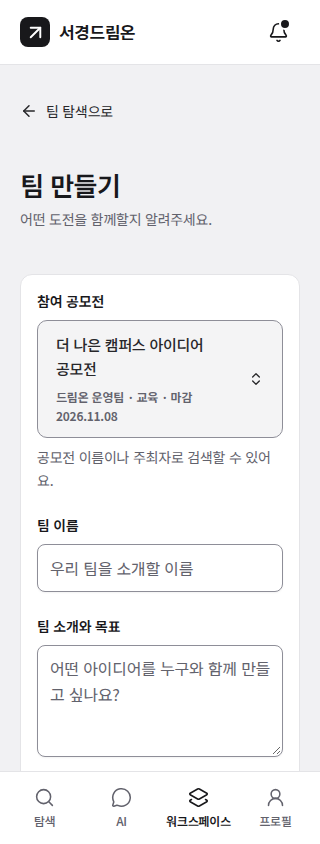
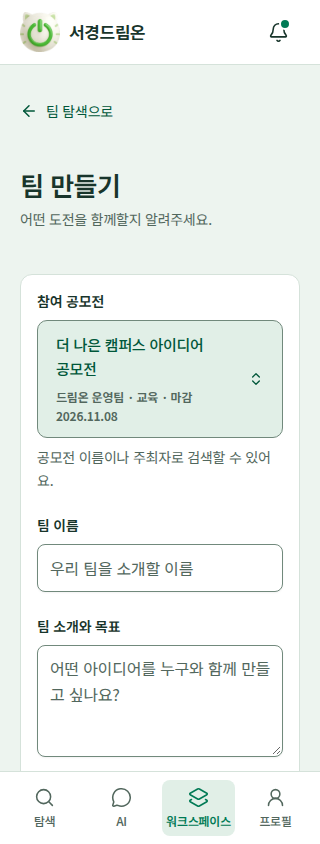
docs(design): refresh mascot and palette verification captures

diff --git a/docs/design/verification.md b/docs/design/verification.md
@@ -1,18 +1,21 @@
 # 공식 디자인 검증 기록
 
-2026-10-18 저장소 이관과 기능 명세 정합 작업에서 확인했습니다. 재생성 가능한 검증 원본은 [단위·컴포넌트 테스트](../../design-reference/src/features/design-preview/ExplorePages.test.tsx)와 [브라우저 검사 스크립트](../../design-reference/scripts/reference-check.cjs)이며, 화면은 같은 변경 PR에 포함된 코드 기준입니다.
+2026-10-18 저장소 이관·기능 명세 정합 작업 이후, 로고·마스코트 선택·기본 커버·대학교 색상 적용까지 확인했습니다. 재생성 가능한 검증 원본은 [단위·컴포넌트 테스트](../../design-reference/src/features/design-preview/ExplorePages.test.tsx)와 [브라우저 검사 스크립트](../../design-reference/scripts/reference-check.cjs)이며, 화면은 같은 변경 PR에 포함된 코드 기준입니다.
 
 ## 실행 결과
 
 | 검사 | 결과 |
 | --- | --- |
 | 고정 의존성 `npm ci` | 성공 |
-| `npm test` | 8개 파일, 101개 테스트 통과 |
+| `npm test` | 9개 파일, 105개 테스트 통과 |
 | ESLint·Prettier·TypeScript | 통과 |
-| production build | 성공. 단일 JS 청크 약 670kB 경고는 남아 있으며 제품 구현 시 분할·실제 네트워크 성능 검증 필요 |
+| production build | 성공. 단일 JS 청크 약 673kB 경고는 남아 있으며 제품 구현 시 분할·실제 네트워크 성능 검증 필요 |
 | `npm run check:ui` | Chromium 320×844·390×844·430×844 통과 |
 | 브라우저 확인 | 비로그인 사람 차단, 마감 공고 읽기 전용, 생성·프로필, 선발 즉시 팀원·정원 반영, AI 실패/재시도, 알림 실패/재시도 |
 | 별도 모바일 흐름 | 필수 입력 오류·원래 팀 복귀, 모집에 없는 역할 지원, 취소 후 새 지원, 공식 인원 오류, 개인 공모전 준비 팀, 공개 스위치·학사 연쇄 선택·포트폴리오 저장 |
+| 마스코트·기본 커버 | 5종 원본 PNG·선택/취소/저장·공개 프로필 반영, 이미지 없음/로드 실패 fallback, 320·390·430px 브라우저 확인 |
+| 키보드·작은 높이 | 마스코트 선택 화살표 키·Escape·트리거 포커스 복귀, 320×568 선택 목록 스크롤·하단 버튼 접근 확인 |
+| 색상 대비 | 주요 버튼 흰 글자 5.36:1, 보조 텍스트 흰 카드 6.07:1·눌린 면 4.92:1. 모든 화면 전체의 자동 접근성 감사 완료를 뜻하지 않음 |
 | 레퍼런스 화면 | 확인한 폭에서 가로 넘침·브라우저 런타임 오류 없음 |
 | 문서 | 원본 링크·앵커, 문서 도구 테스트, VitePress 빌드·생성 링크·자산 검사 통과 |
 
@@ -33,3 +36,11 @@
 | 공개 설정 · 320px | 팀 생성 · 320px |
 | --- | --- |
 | ![독립적인 프로필 공개 설정](assets/profile-320.png) | ![모바일 팀 생성 폼](assets/create-team-320.png) |
+
+| 마스코트 선택 · 390px | 공모전 기본 커버 · 390px |
+| --- | --- |
+| ![파워프렌즈 프로필 이미지 선택](assets/avatar-picker-390.png) | ![이미지가 없는 공모전의 스콘 커버](assets/default-cover-390.png) |
+
+공모전 검색 팝업은 320px에서도 썸네일·이름·주최자·마감과 선택 표시를 함께 확인합니다.
+
+![썸네일이 포함된 공모전 선택 팝업](assets/contest-picker-320.png)
